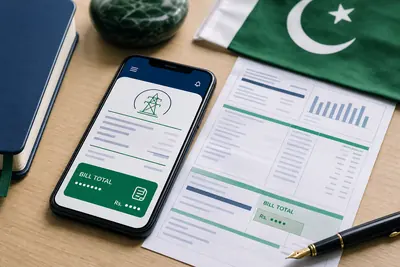
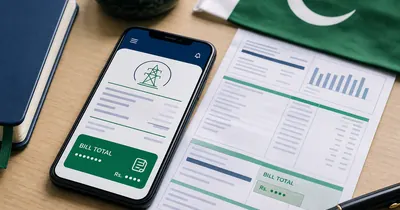
Add files via upload

diff --git a/blog/electricity-bill-not-received-what-to-do/index.html b/blog/electricity-bill-not-received-what-to-do/index.html
@@ -11,7 +11,7 @@
   <link rel="stylesheet" href="../article.css">
   <style>
     .guide-cover{overflow:hidden;margin:0 0 22px;border:1px solid var(--line);border-radius:34px;background:#fff;box-shadow:0 18px 45px rgba(7,26,20,.09)}
-    .guide-cover img{display:block;width:100%;height:auto;aspect-ratio:3/2;object-fit:cover}
+    .guide-cover img{display:block;width:100%;height:auto;aspect-ratio:1200/630;object-fit:cover}
     .table-wrap{overflow-x:auto;max-width:100%;-webkit-overflow-scrolling:touch;border:1px solid #dcebe4;border-radius:22px;background:#fff;box-shadow:0 12px 30px rgba(6,30,22,.06)}
     .table-wrap:focus-visible{outline:3px solid #10b981;outline-offset:2px}
     .guide-table{width:100%;min-width:660px;border-collapse:separate;border-spacing:0;line-height:1.6}
@@ -44,7 +44,7 @@
   <meta property="og:url" content="https://lesco-bill-pk.rehanbloggerr.workers.dev/blog/electricity-bill-not-received-what-to-do/">
   <meta property="og:image" content="https://lesco-bill-pk.rehanbloggerr.workers.dev/images/electricity-bill-not-received-cover.webp">
   <meta property="og:image:width" content="1200">
-  <meta property="og:image:height" content="800">
+  <meta property="og:image:height" content="630">
   <meta name="twitter:card" content="summary_large_image">
   <meta name="twitter:title" content="Electricity bill not received? What to do right now">
   <meta name="twitter:description" content="Electricity bill not received? What to do: check a duplicate bill online, verify details and pay on time. Learn how to fix repeat paper-delivery trouble.">
@@ -52,7 +52,7 @@
   <meta property="article:published_time" content="2026-10-02T00:00:00+05:00">
   <meta property="article:modified_time" content="2026-10-02T00:00:00+05:00">
   <meta property="article:section" content="Troubleshooting">
-  <script type="application/ld+json">{"@context":"https://schema.org","@graph":[{"@type":"BlogPosting","@id":"https://lesco-bill-pk.rehanbloggerr.workers.dev/blog/electricity-bill-not-received-what-to-do/#article","headline":"Electricity bill not received? What to do right now","description":"Electricity bill not received? What to do: check a duplicate bill online, verify details and pay on time. Learn how to fix repeat paper-delivery trouble.","url":"https://lesco-bill-pk.rehanbloggerr.workers.dev/blog/electricity-bill-not-received-what-to-do/","mainEntityOfPage":"https://lesco-bill-pk.rehanbloggerr.workers.dev/blog/electricity-bill-not-received-what-to-do/","image":{"@type":"ImageObject","url":"https://lesco-bill-pk.rehanbloggerr.workers.dev/images/electricity-bill-not-received-cover.webp","width":1200,"height":800},"author":{"@type":"Organization","@id":"https://lesco-bill-pk.rehanbloggerr.workers.dev/#organization","name":"BijleeBill.pk","url":"https://lesco-bill-pk.rehanbloggerr.workers.dev/"},"publisher":{"@type":"Organization","@id":"https://lesco-bill-pk.rehanbloggerr.workers.dev/#organization","name":"BijleeBill.pk","url":"https://lesco-bill-pk.rehanbloggerr.workers.dev/"},"datePublished":"2026-10-02","dateModified":"2026-10-02","articleSection":"Troubleshooting","keywords":["electricity bill not received what to do","duplicate electricity bill","bijli ka bill nahi mila"],"inLanguage":"en-PK"},{"@type":"FAQPage","@id":"https://lesco-bill-pk.rehanbloggerr.workers.dev/blog/electricity-bill-not-received-what-to-do/#faq","mainEntity":[{"@type":"Question","name":"I have not received my electricity bill. What should I do first?","acceptedAnswer":{"@type":"Answer","text":"Open the duplicate bill online through the official billing route for your correct company before making any payment. Use the reference number from an old bill. Verify the name, amount and due date. Then pay through a trusted bank or wallet channel from your own account."}},{"@type":"Question","name":"Is an online duplicate electricity bill valid for payment?","acceptedAnswer":{"@type":"Answer","text":"A duplicate opened from the official bill page works as a billing copy. Verify the name, address, amount and bill month before payment. Keep the copy for your records."}},{"@type":"Question","name":"Can I pay without waiting for the paper bill?","acceptedAnswer":{"@type":"Answer","text":"Yes. Open the current bill online. Review the details. Pay from a bank, wallet, ATM or approved channel. Save the receipt."}},{"@type":"Question","name":"What should I do without a reference number?","acceptedAnswer":{"@type":"Answer","text":"Check an old paper bill first. Then check a payment receipt or wallet history. You can ask someone at the property for a bill photo. Official customer service can help after verification."}},{"@type":"Question","name":"What causes a paper bill to miss every month?","acceptedAnswer":{"@type":"Answer","text":"Use online duplicates for payment. Then contact the subdivision office or customer service center. Ask for a delivery-address review. Keep a written complaint record."}},{"@type":"Question","name":"Does this guide work for K-Electric?","acceptedAnswer":{"@type":"Answer","text":"Not through PITC. K-Electric uses a separate official system and a 13-digit account number. Use the official KE website, KE Live App or official support channel."}}]},{"@type":"BreadcrumbList","@id":"https://lesco-bill-pk.rehanbloggerr.workers.dev/blog/electricity-bill-not-received-what-to-do/#breadcrumb","itemListElement":[{"@type":"ListItem","position":1,"name":"Home","item":"https://lesco-bill-pk.rehanbloggerr.workers.dev/"},{"@type":"ListItem","position":2,"name":"Blog","item":"https://lesco-bill-pk.rehanbloggerr.workers.dev/blog/"},{"@type":"ListItem","position":3,"name":"Electricity bill not received","item":"https://lesco-bill-pk.rehanbloggerr.workers.dev/blog/electricity-bill-not-received-what-to-do/"}]}]}</script>
+  <script type="application/ld+json">{"@context":"https://schema.org","@graph":[{"@type":"BlogPosting","@id":"https://lesco-bill-pk.rehanbloggerr.workers.dev/blog/electricity-bill-not-received-what-to-do/#article","headline":"Electricity bill not received? What to do right now","description":"Electricity bill not received? What to do: check a duplicate bill online, verify details and pay on time. Learn how to fix repeat paper-delivery trouble.","url":"https://lesco-bill-pk.rehanbloggerr.workers.dev/blog/electricity-bill-not-received-what-to-do/","mainEntityOfPage":"https://lesco-bill-pk.rehanbloggerr.workers.dev/blog/electricity-bill-not-received-what-to-do/","image":{"@type":"ImageObject","url":"https://lesco-bill-pk.rehanbloggerr.workers.dev/images/electricity-bill-not-received-cover.webp","width":1200,"height":630},"author":{"@type":"Organization","@id":"https://lesco-bill-pk.rehanbloggerr.workers.dev/#organization","name":"BijleeBill.pk","url":"https://lesco-bill-pk.rehanbloggerr.workers.dev/"},"publisher":{"@type":"Organization","@id":"https://lesco-bill-pk.rehanbloggerr.workers.dev/#organization","name":"BijleeBill.pk","url":"https://lesco-bill-pk.rehanbloggerr.workers.dev/"},"datePublished":"2026-10-02","dateModified":"2026-10-02","articleSection":"Troubleshooting","keywords":["electricity bill not received what to do","duplicate electricity bill","bijli ka bill nahi mila"],"inLanguage":"en-PK"},{"@type":"FAQPage","@id":"https://lesco-bill-pk.rehanbloggerr.workers.dev/blog/electricity-bill-not-received-what-to-do/#faq","mainEntity":[{"@type":"Question","name":"I have not received my electricity bill. What should I do first?","acceptedAnswer":{"@type":"Answer","text":"Open the duplicate bill online through the official billing route for your correct company before making any payment. Use the reference number from an old bill. Verify the name, amount and due date. Then pay through a trusted bank or wallet channel from your own account."}},{"@type":"Question","name":"Is an online duplicate electricity bill valid for payment?","acceptedAnswer":{"@type":"Answer","text":"A duplicate opened from the official bill page works as a billing copy. Verify the name, address, amount and bill month before payment. Keep the copy for your records."}},{"@type":"Question","name":"Can I pay without waiting for the paper bill?","acceptedAnswer":{"@type":"Answer","text":"Yes. Open the current bill online. Review the details. Pay from a bank, wallet, ATM or approved channel. Save the receipt."}},{"@type":"Question","name":"What should I do without a reference number?","acceptedAnswer":{"@type":"Answer","text":"Check an old paper bill first. Then check a payment receipt or wallet history. You can ask someone at the property for a bill photo. Official customer service can help after verification."}},{"@type":"Question","name":"What causes a paper bill to miss every month?","acceptedAnswer":{"@type":"Answer","text":"Use online duplicates for payment. Then contact the subdivision office or customer service center. Ask for a delivery-address review. Keep a written complaint record."}},{"@type":"Question","name":"Does this guide work for K-Electric?","acceptedAnswer":{"@type":"Answer","text":"Not through PITC. K-Electric uses a separate official system and a 13-digit account number. Use the official KE website, KE Live App or official support channel."}}]},{"@type":"BreadcrumbList","@id":"https://lesco-bill-pk.rehanbloggerr.workers.dev/blog/electricity-bill-not-received-what-to-do/#breadcrumb","itemListElement":[{"@type":"ListItem","position":1,"name":"Home","item":"https://lesco-bill-pk.rehanbloggerr.workers.dev/"},{"@type":"ListItem","position":2,"name":"Blog","item":"https://lesco-bill-pk.rehanbloggerr.workers.dev/blog/"},{"@type":"ListItem","position":3,"name":"Electricity bill not received","item":"https://lesco-bill-pk.rehanbloggerr.workers.dev/blog/electricity-bill-not-received-what-to-do/"}]}]}</script>
 </head>
 <body>
   <div class="reading-progress" aria-hidden="true"></div>
@@ -149,7 +149,7 @@
 
       <article class="article">
         <figure class="guide-cover">
-          <img src="/images/electricity-bill-not-received-cover-400.webp" srcset="/images/electricity-bill-not-received-cover-400.webp 400w, /images/electricity-bill-not-received-cover-800.webp 800w, /images/electricity-bill-not-received-cover.webp 1200w" sizes="(max-width: 700px) calc(100vw - 32px), 760px" width="1200" height="800" alt="Electricity bill not received what to do guide with duplicate bill lookup on a phone" loading="eager" decoding="async" fetchpriority="high">
+          <img src="/images/electricity-bill-not-received-cover-400.webp" srcset="/images/electricity-bill-not-received-cover-400.webp 400w, /images/electricity-bill-not-received-cover-800.webp 800w, /images/electricity-bill-not-received-cover.webp 1200w" sizes="(max-width: 700px) calc(100vw - 32px), 760px" width="1200" height="630" alt="Electricity bill not received what to do guide with duplicate bill lookup on a phone" loading="eager" decoding="async" fetchpriority="high">
         </figure>
 
         <section class="section" id="overview">
